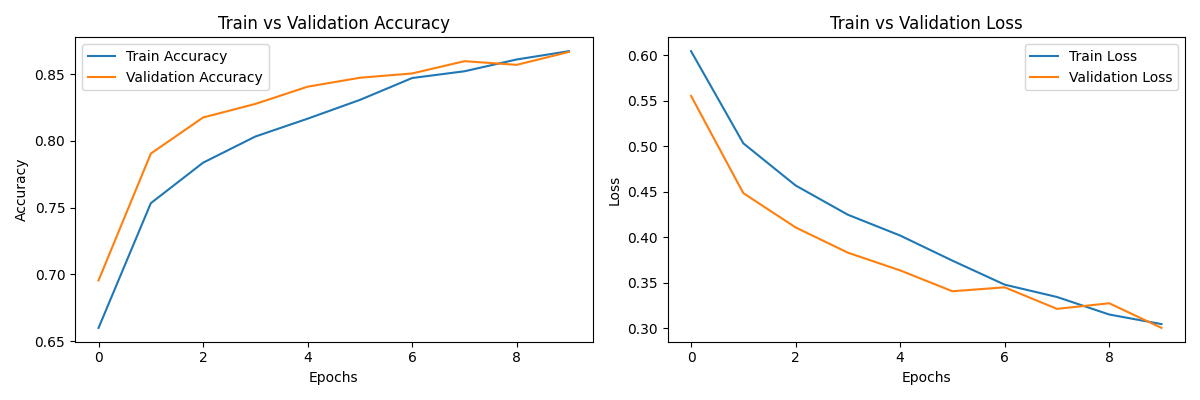
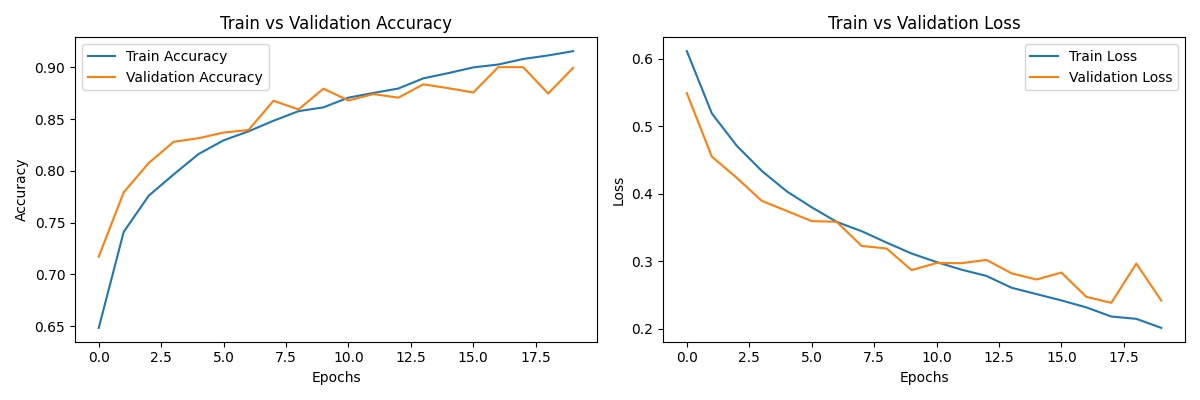
update

diff --git a/templates/index.html b/templates/index.html
@@ -1,0 +1,15 @@
+<!DOCTYPE html>
+<html lang="en">
+<head>
+    <meta charset="UTF-8">
+    <meta name="viewport" content="width=device-width, initial-scale=1.0">
+    <title>Cat vs Dog Classifier</title>
+</head>
+<body>
+    <h1>Cat vs Dog Classifier</h1>
+    <form action="/predict" method="post" enctype="multipart/form-data">
+        <input type="file" name="file">
+        <input type="submit" value="Upload">
+    </form>
+</body>
+</html>

diff --git a/main.py b/main.py
@@ -1,23 +1,44 @@
+import requests
+from flask import Flask, render_template, request, jsonify
 import tensorflow as tf
 import numpy as np
 from tensorflow.keras.preprocessing import image
-from arguments import get_args
+from tensorflow.keras.models import load_model
 
-def predict(img_path, model_path, img_size):
-    model = tf.keras.models.load_model(model_path)
 
-    img = image.load_img(img_path, target_size=img_size)
+def preprocess_image(img_path, target_size):
+    img = image.load_img(img_path, target_size=target_size)
     img_array = image.img_to_array(img)
-    img_array = np.expand_dims(img_array, axis=0) / 255.0
+    img_scale = np.expand_dims(img_array, axis=0) / 255.0
+    return img_scale
 
-    prediction = model.predict(img_array)
-    if prediction[0] > 0.5:
-        return 'dog'
-    else:
-        return 'cat'
+app = Flask(__name__)
+
+model = load_model('model/cats_dogs_cls.h5')
+# image = preprocess_image('datasets/val/dogs/dog.5.jpg', target_size=(128, 128))
+# prediction = model.predict(image)
+# print(prediction[0][0])
+
+@app.route('/')
+def index():
+    return render_template('index.html')
+
+@app.route('/predict', methods=['POST'])
+def predict():
+    if 'file' not in request.files:
+        return "No file part"
+    file = request.files['file']
+    if file.filename == '':
+        return "No selected file"
+    if file:
+        # Preprocess the image
+        image = preprocess_image(file, target_size=(128, 128))
+
+        # Make prediction
+        prediction = model.predict(image)
+        predicted_class = "Dog" if prediction[0][0] > 0.5 else "Cat"
+
+        return jsonify({'prediction': predicted_class})
 
 if __name__ == '__main__':
-    args = get_args()
-    img_path = input("Enter the path to the image: ")
-    result = predict(img_path, args.model_save_path, args.img_size)
-    print(f'The image is a {result}.')
+    app.run(debug=True)

diff --git a/arguments.py b/arguments.py
@@ -2,7 +2,7 @@ import argparse
 
 def get_args():
     parser = argparse.ArgumentParser(description="Train a model to classify cats and dogs.")
-    parser.add_argument('--epochs', type=int, default=10)
+    parser.add_argument('--epochs', type=int, default=20)
     parser.add_argument('--batch_size', type=int, default=32)
     parser.add_argument('--learning_rate', type=float, default=0.0001)
     parser.add_argument('--img_size', type=tuple, default=(128, 128))
